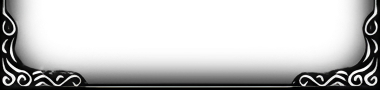
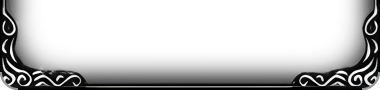
feat(ui): round corners on the stone window backdrop and the frame's bottom corners
Windows that draw newui_msgbox_back through RenderImage now cut the backdrop to a rounded rectangle, so the world shows
through the corners instead of a black square.

Changed region(s): [[0.9553, 0.8, 1.0, 1.0], [0.0, 0.8, 0.0579, 1.0]]

diff --git a/tools/ui_hd/reframe.py b/tools/ui_hd/reframe.py
@@ -101,30 +101,39 @@ OUTER_STROKE_COLOUR = (150, 152, 160)
 OUTER_CORNERS = {
     "newui_menu01.OZJ": ("tl",),
     "partCharge1/newui_menu03.OZJ": ("tr",),
+    "newui_item_back03.OZT": ("bl", "br"),
 }
 
 
 def round_outer_corners(master, corners):
-    """Cuts the listed top corners of a bar piece to a quarter circle (transparent outside) and strokes the curve."""
+    """Cuts the listed corners ("tl", "tr", "bl", "br") to a quarter circle (transparent outside) and strokes the curve."""
+    out = master.copy()
+    for corner in corners:
+        flipped = corner[0] == "b"
+        work = out[::-1].copy() if flipped else out
+        work = round_top_corner(work, "tl" if corner[1] == "l" else "tr")
+        out = work[::-1].copy() if flipped else work
+    return out
+
+
+def round_top_corner(master, corner):
     out = master.copy()
     height, width = out.shape[:2]
     radius = int(round(OUTER_CORNER_RADIUS * SCALE))
-    inset = OUTER_STROKE * SCALE
-    for corner in corners:
-        x0 = 0 if corner == "tl" else width - radius
-        block = out[0:radius, x0:x0 + radius].copy()
-        full = (radius * 2, radius * 2)
-        outer = rounded_mask_r(full, 0.0, OUTER_CORNER_RADIUS * 1.0)
-        inner = rounded_mask_r(full, OUTER_STROKE, OUTER_CORNER_RADIUS * 1.0)
-        outer = outer[:radius, :radius] if corner == "tl" else outer[:radius, radius:]
-        inner = inner[:radius, :radius] if corner == "tl" else inner[:radius, radius:]
-        keep = outer / 255.0
-        stroke = np.clip(outer - inner, 0, 255) / 255.0
-        colour = np.array(OUTER_STROKE_COLOUR, np.float32)
-        rgb = block[..., :3].astype(np.float32) * (1 - stroke[..., None]) + colour * stroke[..., None]
-        block[..., :3] = np.clip(np.rint(rgb * keep[..., None]), 0, 255).astype(np.uint8)
-        block[..., 3] = np.clip(np.rint(keep * 255.0), 0, 255).astype(np.uint8)
-        out[0:radius, x0:x0 + radius] = block
+    x0 = 0 if corner == "tl" else width - radius
+    block = out[0:radius, x0:x0 + radius].copy()
+    full = (radius * 2, radius * 2)
+    outer = rounded_mask_r(full, 0.0, OUTER_CORNER_RADIUS * 1.0)
+    inner = rounded_mask_r(full, OUTER_STROKE, OUTER_CORNER_RADIUS * 1.0)
+    outer = outer[:radius, :radius] if corner == "tl" else outer[:radius, radius:]
+    inner = inner[:radius, :radius] if corner == "tl" else inner[:radius, radius:]
+    keep = outer / 255.0
+    stroke = np.clip(outer - inner, 0, 255) / 255.0
+    colour = np.array(OUTER_STROKE_COLOUR, np.float32)
+    rgb = block[..., :3].astype(np.float32) * (1 - stroke[..., None]) + colour * stroke[..., None]
+    block[..., :3] = np.clip(np.rint(rgb * keep[..., None]), 0, 255).astype(np.uint8)
+    block[..., 3] = np.clip(np.rint(block[..., 3].astype(np.float32) * keep), 0, 255).astype(np.uint8)
+    out[0:radius, x0:x0 + radius] = block
     return out
 
 

diff --git a/src/source/UI/NewUI/Widgets/RoundedBackdrop.cpp b/src/source/UI/NewUI/Widgets/RoundedBackdrop.cpp
@@ -1,0 +1,51 @@
+#include "stdafx.h"
+#include "UI/NewUI/Widgets/RoundedBackdrop.h"
+
+#include <algorithm>
+#include <cmath>
+
+#include "Render/Textures/ZzzOpenglUtil.h"
+
+namespace UI::Frame::RoundedBackdrop
+{
+namespace
+{
+constexpr float kHalfTexel = 0.5f;
+
+void DrawPart(GLuint image, const BITMAP_t& bitmap, float x, float y, float offsetX, float offsetY, float width,
+              float height)
+{
+    if (width <= 0.0f || height <= 0.0f)
+        return;
+
+    const float u = (offsetX + kHalfTexel) / bitmap.Width;
+    const float v = (offsetY + kHalfTexel) / bitmap.Height;
+    RenderBitmap(image, x + offsetX, y + offsetY, width, height, u, v, width / bitmap.Width, height / bitmap.Height);
+}
+
+// How far in from the side a row at `rowCentre` (measured from the edge) starts on a corner of the given radius.
+float CornerInset(float radius, float rowCentre)
+{
+    const float rise = radius - rowCentre;
+    return radius - std::sqrt(std::max(radius * radius - rise * rise, 0.0f));
+}
+} // namespace
+
+void Render(GLuint image, float x, float y, float width, float height)
+{
+    const BITMAP_t& bitmap = Bitmaps[image];
+    const float radius = std::min({kCornerRadius, width * 0.5f, height * 0.5f});
+
+    DrawPart(image, bitmap, x, y, 0.0f, radius, width, height - 2.0f * radius);
+
+    const float slice = 1.0f / kSlicesPerPixel;
+    const int slices = static_cast<int>(radius * kSlicesPerPixel);
+    for (int index = 0; index < slices; ++index)
+    {
+        const float rowTop = index * slice;
+        const float inset = CornerInset(radius, rowTop + slice * 0.5f);
+        DrawPart(image, bitmap, x, y, inset, rowTop, width - 2.0f * inset, slice);
+        DrawPart(image, bitmap, x, y, inset, height - rowTop - slice, width - 2.0f * inset, slice);
+    }
+}
+} // namespace UI::Frame::RoundedBackdrop

diff --git a/src/source/Render/Sprites/GlobalBitmap.cpp b/src/source/Render/Sprites/GlobalBitmap.cpp
@@ -869,6 +869,7 @@ bool CGlobalBitmap::OpenJpegTurbo(GLuint uiBitmapIndex, const std::wstring& file
     wcsncpy(pNewBitmap->FileName, filename.c_str(), MAX_BITMAP_FILE_NAME - 1);
     pNewBitmap->FileName[MAX_BITMAP_FILE_NAME - 1] = L'\0';
 
+    pNewBitmap->IsWindowBackdrop = Render::UiTextureQuality::IsWindowBackdropPath(filename);
     pNewBitmap->Width = static_cast<float>(textureWidth);
     pNewBitmap->Height = static_cast<float>(textureHeight);
     pNewBitmap->Components = 3;
@@ -1035,6 +1036,7 @@ bool CGlobalBitmap::AddHdBitmap(GLuint uiBitmapIndex, const std::wstring& filena
     pNewBitmap->Components = kRgbaComponents;
     pNewBitmap->Ref = 1;
     pNewBitmap->TextureNumber = uiBitmapIndex;
+    pNewBitmap->IsWindowBackdrop = Render::UiTextureQuality::IsWindowBackdropPath(filename);
     pNewBitmap->BufferStorage = std::move(hdImage.rgba);
     pNewBitmap->Buffer = pNewBitmap->BufferStorage.data();
     m_dwUsedTextureMemory += static_cast<std::uint32_t>(pNewBitmap->BufferStorage.size());

diff --git a/tests/render/test_ui_texture_quality.cpp b/tests/render/test_ui_texture_quality.cpp
@@ -39,3 +39,14 @@ TEST_CASE("transparent UI bleed rejects malformed dimensions [render][ui_texture
     Render::UiTextureQuality::BleedTransparentRgb(pixel, 2, 1);
     CHECK(pixel == std::array<std::uint8_t, 4>{1, 2, 3, 0});
 }
+
+TEST_CASE("the stone window backdrop is recognised by name [render][ui_texture_quality]")
+{
+    using Render::UiTextureQuality::IsWindowBackdropPath;
+
+    CHECK(IsWindowBackdropPath(L"Data\Interface\newui_msgbox_back.jpg"));
+    CHECK(IsWindowBackdropPath(L"data/interface/NEWUI_MSGBOX_BACK.OZJ"));
+
+    CHECK_FALSE(IsWindowBackdropPath(L"Data\Interface\newui_item_back01.tga"));
+    CHECK_FALSE(IsWindowBackdropPath(L"Data\Effect\newui_msgbox_back.jpg"));
+}

diff --git a/src/source/Render/Textures/UiTextureQuality.h b/src/source/Render/Textures/UiTextureQuality.h
@@ -32,6 +32,15 @@ namespace Render::UiTextureQuality
     return root == L"interface";
 }
 
+[[nodiscard]] inline bool IsWindowBackdropPath(std::wstring_view path)
+{
+    constexpr std::wstring_view kBackdropName = L"newui_msgbox_back.";
+    std::wstring normalized(path);
+    std::transform(normalized.begin(), normalized.end(), normalized.begin(),
+                   [](wchar_t character) { return static_cast<wchar_t>(std::towlower(character)); });
+    return IsInterfaceTexturePath(path) && normalized.find(kBackdropName) != std::wstring::npos;
+}
+
 inline void BleedTransparentRgb(std::span<std::uint8_t> rgba, int width, int height)
 {
     constexpr int kComponents = 4;

diff --git a/src/source/UI/NewUI/NewUICommon.cpp b/src/source/UI/NewUI/NewUICommon.cpp
@@ -8,6 +8,7 @@
 
 #include "UI/NewUI/NewUICommon.h"
 #include "UI/NewUI/Widgets/NewUIRenderNumber.h"
+#include "UI/NewUI/Widgets/RoundedBackdrop.h"
 #include "UI/NewUI/NewUISystem.h"
 #include "UI/NewUI/Dialogs/NewUICommonMessageBox.h"
 #include "Render/Textures/ZzzTexture.h"
@@ -58,6 +59,12 @@ bool SEASON3B::CheckMouseIn(int x, int y, int width, int height)
 void SEASON3B::RenderImage(GLuint uiImageType, float x, float y, float width, float height)
 {
     BITMAP_t* pImage = &Bitmaps[uiImageType];
+
+    if (pImage->IsWindowBackdrop)
+    {
+        UI::Frame::RoundedBackdrop::Render(uiImageType, x, y, width, height);
+        return;
+    }
 
     float u, v, uw, vh;
 

diff --git a/src/source/UI/NewUI/Widgets/RoundedBackdrop.h b/src/source/UI/NewUI/Widgets/RoundedBackdrop.h
@@ -1,0 +1,14 @@
+#pragma once
+
+#include "Render/Sprites/GlobalBitmap.h"
+
+// Draws a window's stone backdrop with round corners. The texture is mapped 1:1 from its top-left corner, exactly as a
+// plain RenderImage would draw it; only the pixels outside the four corner arcs are left out, so the world shows
+// through them.
+namespace UI::Frame::RoundedBackdrop
+{
+inline constexpr float kCornerRadius = 6.0f;
+inline constexpr int kSlicesPerPixel = 4;
+
+void Render(GLuint image, float x, float y, float width, float height);
+} // namespace UI::Frame::RoundedBackdrop

diff --git a/tools/ui_hd/verify.py b/tools/ui_hd/verify.py
@@ -26,7 +26,7 @@ DEFAULT_MIN_SSIM = 0.90
 DEFAULT_MAX_ALPHA_ERROR = 10.0
 
 
-REDRAWN = {name.lower() for name in set(retext.SPECS) | set(reframe.SPECS) | set(reframe.SLOT_STRIPS) | gauges.SPECS}
+REDRAWN = {name.lower() for name in set(retext.SPECS) | set(reframe.SPECS) | set(reframe.SLOT_STRIPS) | set(reframe.OUTER_CORNERS) | gauges.SPECS}
 
 
 def check(relative, scale):

diff --git a/src/source/Render/Sprites/GlobalBitmap.h b/src/source/Render/Sprites/GlobalBitmap.h
@@ -44,6 +44,8 @@ public:
 #pragma pack(pop)
     SDL_GPUTexture* sdlTexture = nullptr;
     SDL_GPUSampler* sdlSampler = nullptr;
+    // The stone window backdrop (newui_msgbox_back): drawn with round corners by SEASON3B::RenderImage.
+    bool IsWindowBackdrop = false;
 };
 
 class CBitmapCache

diff --git a/docs/ui-hd-textures.md b/docs/ui-hd-textures.md
@@ -108,6 +108,9 @@ problems (pixel-font captions, notched corners, noisy shading):
 
 The skill boxes and menu buttons have transparent corners, so the game turns alpha blending on before drawing them.
 
+The stone window backdrop (`newui_msgbox_back`) is drawn with round corners by every window that draws it through
+`SEASON3B::RenderImage`; the bottom corners of `newui_item_back03` are rounded in the art to match.
+
 ## Bottom HUD layout
 
 The hotkey slots, the orb bar and the menu buttons are one centred group (the original 640-wide layout) at any
